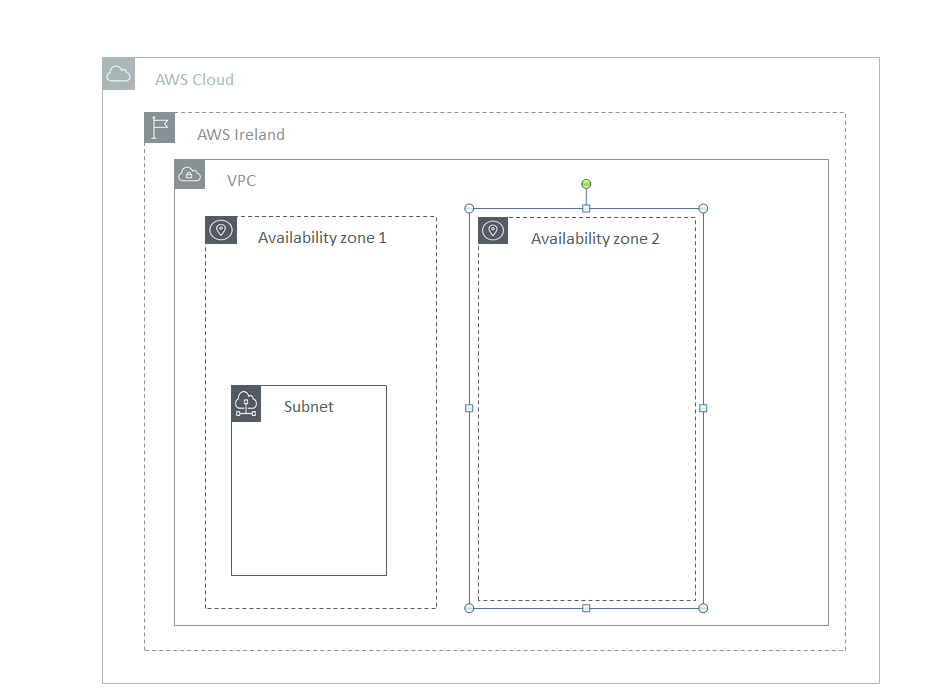
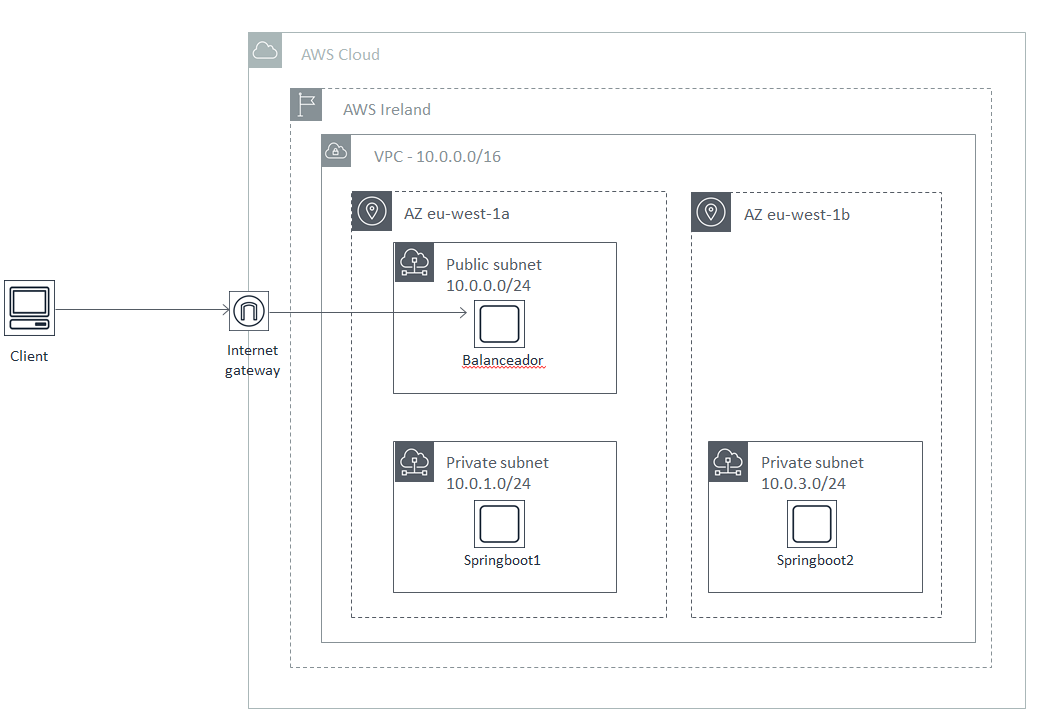
upload images for README

diff --git a/README.md b/README.md
@@ -2,20 +2,42 @@
 
 Proceso de selección ALTRAN
 
+##¿Que contiene este repositorio? ##
 
-### Prerequisites
+Este repositorio contiene unos scripts de terraform que despliegan una aplicación  [Spring Boot de ejemplo](https://github.com/spring-projects/spring-boot/tree/master/spring-boot-samples/spring-boot-sample-hateoas) sobre una cuenta de AWS. Para lograr esto, se ha programado la construcción de lo siguiente:
+
+* Un bucket S3 donde se guardará los estados de las ejecuciones de Terrafom
+* Construye una VPC con una subred pública y dos subredes privadas.
+* Construye una servidor EC2 en la subred pública, y se desplegará un nginx que hara las veces de balanceador. El punto de acceso será el puerto 443. El nginx se levantará dentro de un contenedor Docker. Este servidor irá en un grupo de seguridad con el puerto 443 y el 22 abierto.
+* Construye dos servidores EC2, donde cada uno irá en una de las subredes privadas. En estos servidores se desplegará la aplicación de ejemplo, que se levantará en un contenedor docker, con el puerto 9000. Iran en un grupo de seguridad que solo aceptará peticiones del grupo de segurodad del balanceador, y solo por los puertos 9000 y 22.
+* Para desplegar la aplicación, y a manera de demostración, hemos optado por compilar en vuelo la aplicación, levantando un docker con maven, que dejará el fichero jar en un directorio que utilizaremos en un docker compose que construirá la imagén que levantará la aplicación.
+
+
+### Pre-requisitos
 
 - Cuenta de AWS
 - Terraform instalado en el servidor donde se clone el proyecto
 
 
-### Installing
-
-A step by step series of examples that tell you how to get a development env running
-
-Say what the step will be
+## Arquitectura
 
 ![Optional Text](/images/arquitectura.png)
+
+
+## Despliegue
+
+### Construcción del S3
+
+```
+cd $HOME/altran-global-account/eu-west-1/s3-for-development
+```
+
+`terraform init -backend-config="variables-backend.tfbackend"`
+
+`terrafom apply -var-file="user.tfvars"`
+
+
+![Optional Text](/images/s3-state.PNG)
 
 
 ```
@@ -28,45 +50,20 @@ And repeat
 until finished
 ```
 
-End with an example of getting some data out of the system or using it for a little demo
-
-## Running the tests
-
-Explain how to run the automated tests for this system
-
-### Break down into end to end tests
-
-Explain what these tests test and why
-
 ```
-Give an example
-```
+Apply complete! Resources: 14 added, 0 changed, 0 destroyed.
+Releasing state lock. This may take a few moments...
 
-### And coding style tests
+Outputs:
 
-Explain what these tests test and why
-
-```
-Give an example
+private_ip_loadbalancer = 10.0.0.196
+private_ip_springboot1 = 10.0.0.145
+private_ip_springboot2 = 10.0.0.145
+private_key = mykey.pem
+public_ip_loadbalancer = 34.242.152.153
+vpc_id = vpc-04360755ffbf47c03
 ```
 
-## Deployment
-
-Add additional notes about how to deploy this on a live system
-
-## Built With
-
-* [Dropwizard](http://www.dropwizard.io/1.0.2/docs/) - The web framework used
-* [Maven](https://maven.apache.org/) - Dependency Management
-* [ROME](https://rometools.github.io/rome/) - Used to generate RSS Feeds
-
-## Contributing
-
-Please read [CONTRIBUTING.md](https://gist.github.com/PurpleBooth/b24679402957c63ec426) for details on our code of conduct, and the process for submitting pull requests to us.
-
-## Versioning
-
-We use [SemVer](http://semver.org/) for versioning. For the versions available, see the [tags on this repository](https://github.com/your/project/tags). 
 
 ## Authors
 
